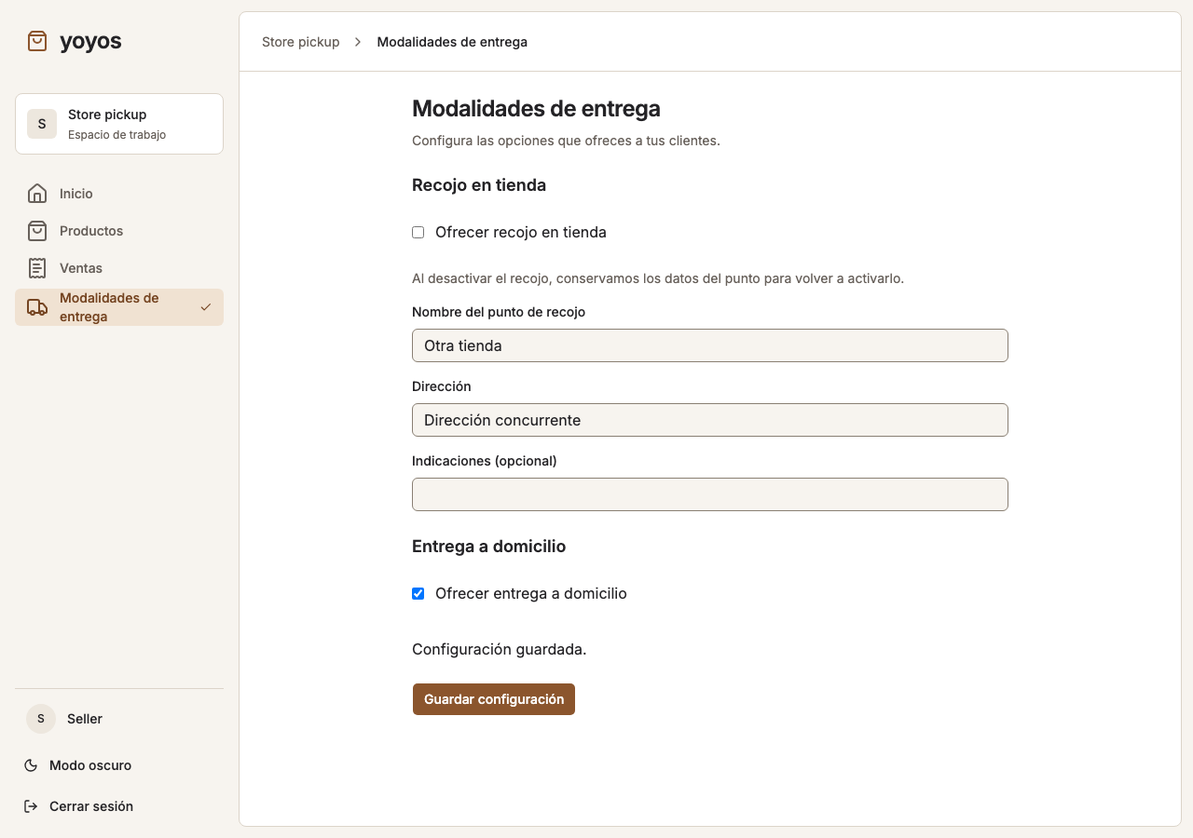
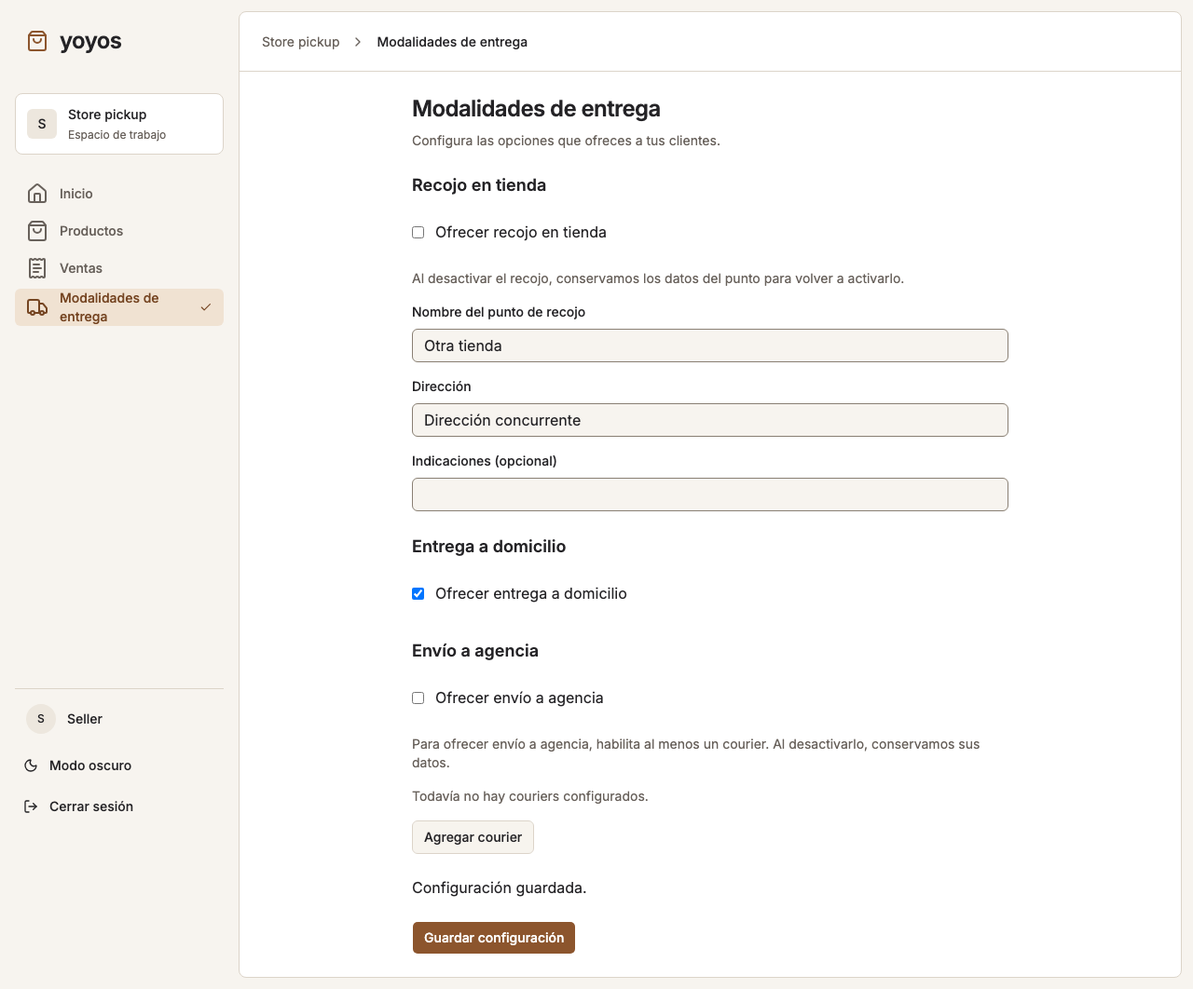
Configure agency delivery and couriers on web and mobile

diff --git a/apps/core/tests/e2e/delivery-settings.spec.ts b/apps/core/tests/e2e/delivery-settings.spec.ts
@@ -49,26 +49,76 @@ test("seller configures store pickup, preserves a conflicting draft and explicit
     await browserExpect(page.getByRole("status")).toHaveText("Configuración guardada.");
     expect(await (await page.request.get("/api/delivery-settings")).json()).toMatchObject({ version: 4, agency: { enabled: false }, couriers: [], home: { enabled: true }, store: { enabled: false, pickupPoint: { address: "Dirección concurrente" } } });
     await mkdir("../../.impeccable/review", { recursive: true });
+    await page.evaluate(() => window.scrollTo(0, 0));
     await page.screenshot({ path: "../../.impeccable/review/delivery-settings-desktop.png", fullPage: true });
     await page.setViewportSize({ width: 390, height: 844 });
     expect(await page.evaluate(() => document.documentElement.scrollWidth <= window.innerWidth)).toBe(true);
+    await page.evaluate(() => window.scrollTo(0, 0));
     await page.screenshot({ path: "../../.impeccable/review/delivery-settings-mobile.png", fullPage: true });
     await page.goto("/pt-BR/settings/delivery");
     await browserExpect(page.getByLabel("Oferecer retirada na loja")).not.toBeChecked();
     await browserExpect(page.getByLabel("Oferecer entrega em domicílio")).toBeChecked();
     await browserExpect(page.getByLabel("Endereço", { exact: true })).toHaveValue("Dirección concurrente");
-    const current = deliverySettingsSchema.parse(await (await page.request.get("/api/delivery-settings")).json());
-    const agencySave = await page.request.put("/api/delivery-settings", { data: { expectedVersion: current.version, home: current.home, store: current.store, agency: { enabled: true },
-      couriers: [{ kind: "new", name: "Active courier", enabled: true }, { kind: "new", name: "Inactive courier", enabled: false }] } });
-    expect(agencySave.ok()).toBe(true);
-    const agencySettings = deliverySettingsSchema.parse(await agencySave.json());
-    await page.reload();
+
+    await page.getByLabel("Oferecer envio para agência").check();
+    await page.getByRole("button", { name: "Adicionar transportadora" }).click();
+    await page.getByLabel("Nome da transportadora 1").fill("Discard");
+    await page.getByRole("button", { name: "Adicionar transportadora" }).click();
+    await page.getByLabel("Nome da transportadora 2").fill("Active courier");
+    await page.getByRole("button", { name: "Adicionar transportadora" }).click();
+    await page.getByLabel("Nome da transportadora 3").fill("Inactive courier");
+    await page.getByRole("button", { name: "Remover transportadora 1 não salva" }).click();
+    await browserExpect(page.getByLabel("Nome da transportadora 1")).toHaveValue("Active courier");
+    await browserExpect(page.getByLabel("Nome da transportadora 2")).toHaveValue("Inactive courier");
+    await page.getByLabel("Habilitar transportadora 2").uncheck();
+    const agencySaved = page.waitForResponse(response => response.request().method() === "POST" && new URL(response.url()).pathname.includes("/settings/delivery"));
+    await page.getByRole("button", { name: "Salvar configuração" }).click();
+    await agencySaved;
+    const agencySettings = deliverySettingsSchema.parse(await (await page.request.get("/api/delivery-settings")).json());
+    expect(agencySettings).toMatchObject({ version: 5, agency: { enabled: true }, couriers: expect.arrayContaining([expect.objectContaining({ name: "Active courier", enabled: true }), expect.objectContaining({ name: "Inactive courier", enabled: false })]) });
+    expect(agencySettings.couriers).toHaveLength(2);
+    await browserExpect(page.getByText("Remover cadastro não salvo")).toHaveCount(0);
     await page.getByLabel("Oferecer entrega em domicílio").uncheck();
     const preserved = page.waitForResponse(response => response.request().method() === "POST" && new URL(response.url()).pathname.includes("/settings/delivery"));
     await page.getByRole("button", { name: "Salvar configuração" }).click();
     await preserved;
     expect(await (await page.request.get("/api/delivery-settings")).json()).toEqual({ ...agencySettings, version: 6, home: { enabled: false }, couriers: expect.arrayContaining(agencySettings.couriers) });
-
+    await page.getByLabel("Habilitar transportadora 1").uncheck();
+    await page.getByRole("button", { name: "Salvar configuração" }).click();
+    await browserExpect(page.getByRole("alert")).toContainText("habilite pelo menos uma transportadora");
+    expect(await (await page.request.get("/api/delivery-settings")).json()).toMatchObject({ version: 6, agency: { enabled: true } });
+    await browserExpect(page.getByLabel("Habilitar transportadora 1")).not.toBeChecked();
+    await page.getByLabel("Oferecer envio para agência").uncheck();
+    const disabled = page.waitForResponse(response => response.request().method() === "POST" && new URL(response.url()).pathname.includes("/settings/delivery"));
+    await page.getByRole("button", { name: "Salvar configuração" }).click();
+    await disabled;
+    expect(await (await page.request.get("/api/delivery-settings")).json()).toMatchObject({ version: 7, agency: { enabled: false }, couriers: expect.arrayContaining(agencySettings.couriers.map(courier => ({ ...courier, enabled: false }))) });
+    await page.getByLabel("Habilitar transportadora 1").check();
+    await page.getByLabel("Oferecer envio para agência").check();
+    const enabledAgain = page.waitForResponse(response => response.request().method() === "POST" && new URL(response.url()).pathname.includes("/settings/delivery"));
+    await page.getByRole("button", { name: "Salvar configuração" }).click();
+    await enabledAgain;
+    const current = deliverySettingsSchema.parse(await (await page.request.get("/api/delivery-settings")).json());
+    await page.getByLabel("Nome da transportadora 1").fill("My rename");
+    await page.getByRole("button", { name: "Adicionar transportadora" }).click();
+    await page.getByLabel("Nome da transportadora 3").fill("My new courier");
+    expect((await page.request.put("/api/delivery-settings", { data: { expectedVersion: current.version, home: current.home, store: current.store, agency: current.agency,
+      couriers: current.couriers.map(courier => ({ ...courier, kind: "existing", name: "Concurrent " + courier.name })) } })).ok()).toBe(true);
+    await page.getByRole("button", { name: "Salvar configuração" }).click();
+    await browserExpect(page.getByRole("alert")).toContainText("Outra pessoa alterou");
+    await browserExpect(page.getByLabel("Nome da transportadora 1")).toHaveValue("My rename");
+    await browserExpect(page.getByLabel("Nome da transportadora 3")).toHaveValue("My new courier");
+    await browserExpect(page.getByRole("button", { name: "Salvar configuração" })).toBeDisabled();
+    await page.getByRole("link", { name: "Recarregar configuração" }).click();
+    await browserExpect(page.getByLabel("Nome da transportadora 3")).toHaveCount(0);
+    await browserExpect(page.getByLabel("Nome da transportadora 1")).toHaveValue(/^Concurrent /);
+    await page.setViewportSize({ width: 1280, height: 900 });
+    await page.evaluate(() => window.scrollTo(0, 0));
+    await page.screenshot({ path: "../../.impeccable/review/agency-settings-desktop.png", fullPage: true });
+    await page.setViewportSize({ width: 390, height: 844 });
+    expect(await page.evaluate(() => document.documentElement.scrollWidth <= window.innerWidth)).toBe(true);
+    await page.evaluate(() => window.scrollTo(0, 0));
+    await page.screenshot({ path: "../../.impeccable/review/agency-settings-mobile.png", fullPage: true });
   } finally {
     if (companyId) await withTenantIsolation(companyId, async () => {
       await prisma.companyCourier.deleteMany();

diff --git a/apps/core/app/routes/delivery-settings.tsx b/apps/core/app/routes/delivery-settings.tsx
@@ -1,9 +1,9 @@
 import { parseCourierInputs } from "@core/src/features/delivery-settings/domain/delivery-settings";
-import { useState } from "react";
+import { useRef, useState } from "react";
 import { useClientReady } from "@core/app/use-client-ready";
 import { useTranslation } from "react-i18next";
 import { useActionData, useLoaderData, useNavigation, useSubmit, type ActionFunctionArgs, type LoaderFunctionArgs } from "react-router";
-import { deliverySettingsSchema, saveDeliverySettingsSchema, type DeliverySettingsResponse } from "@shared/contracts/delivery-settings";
+import { deliverySettingsSchema, saveDeliverySettingsSchema, type DeliverySettingsResponse, type SaveDeliverySettingsRequest } from "@shared/contracts/delivery-settings";
 import { privateUserContext } from "@core/app/private-user-context";
 import { deliverySettings } from "@core/src/features/delivery-settings/composition";
 import { log } from "@core/src/shared/infrastructure/logger";
@@ -42,6 +42,9 @@ export async function action({ context, request }: ActionFunctionArgs) {
   }
 }
 
+type CourierDraft = Extract<SaveDeliverySettingsRequest["couriers"][number], { kind: "existing" }>
+  | (Extract<SaveDeliverySettingsRequest["couriers"][number], { kind: "new" }> & { localKey: number });
+
 function SettingsForm({ settings }: { settings: DeliverySettingsResponse }) {
   const { t } = useTranslation();
   const submit = useSubmit();
@@ -50,7 +53,8 @@ function SettingsForm({ settings }: { settings: DeliverySettingsResponse }) {
   const result = useActionData<typeof action>();
   const [version, setVersion] = useState(settings.version);
   const [agency, setAgency] = useState(settings.agency);
-  const [couriers, setCouriers] = useState(settings.couriers);
+  const [couriers, setCouriers] = useState<CourierDraft[]>(settings.couriers.map(courier => ({ ...courier, kind: "existing" })));
+  const nextCourierKey = useRef(0);
   const [homeEnabled, setHomeEnabled] = useState(settings.home.enabled);
   const [enabled, setEnabled] = useState(settings.store.enabled);
   const [name, setName] = useState(settings.store.pickupPoint?.name ?? "");
@@ -61,7 +65,7 @@ function SettingsForm({ settings }: { settings: DeliverySettingsResponse }) {
   if (saved && saved.version !== version) {
     setVersion(saved.version);
     setAgency(saved.agency);
-    setCouriers(saved.couriers);
+    setCouriers(saved.couriers.map(courier => ({ ...courier, kind: "existing" })));
     setHomeEnabled(saved.home.enabled);
     setEnabled(saved.store.enabled);
     setName(saved.store.pickupPoint?.name ?? "");
@@ -74,7 +78,7 @@ function SettingsForm({ settings }: { settings: DeliverySettingsResponse }) {
   return <form className="flex flex-col gap-6" onSubmit={event => {
     event.preventDefault();
     if (!ready) return;
-    submit({ expectedVersion: version, agency, couriers: couriers.map(courier => ({ ...courier, kind: "existing" as const })), home: { enabled: homeEnabled }, store: { enabled, pickupPoint: configured
+    submit({ expectedVersion: version, agency, couriers: couriers.map(courier => courier.kind === "new" ? { kind: courier.kind, name: courier.name, enabled: courier.enabled } : courier), home: { enabled: homeEnabled }, store: { enabled, pickupPoint: configured
       ? { name, address, instructions: instructions.trim() || null } : null } }, { method: "post", encType: "application/json" });
   }}>
     <fieldset className="flex min-w-0 flex-col gap-4" disabled={pending || !ready}>
@@ -88,6 +92,24 @@ function SettingsForm({ settings }: { settings: DeliverySettingsResponse }) {
     <fieldset className="flex min-w-0 flex-col gap-4" disabled={pending || !ready}>
       <legend className="mb-3 text-lg font-semibold">{t("deliverySettings.home")}</legend>
       <label className="flex min-h-touch items-center gap-3"><input type="checkbox" checked={homeEnabled} onChange={event => setHomeEnabled(event.target.checked)} />{t("deliverySettings.homeEnabled")}</label>
+    </fieldset>
+    <fieldset className="flex min-w-0 flex-col gap-4" disabled={pending || !ready}>
+      <legend className="mb-3 text-lg font-semibold">{t("deliverySettings.agency")}</legend>
+      <label className="flex min-h-touch items-center gap-3"><input type="checkbox" checked={agency.enabled} onChange={event => setAgency({ enabled: event.target.checked })} />{t("deliverySettings.agencyEnabled")}</label>
+      <p className="text-sm text-muted-foreground">{t("deliverySettings.courierHint")}</p>
+      {couriers.length === 0 && <p className="text-sm text-muted-foreground">{t("deliverySettings.noCouriers")}</p>}
+      {couriers.map((courier, index) => {
+        const key = courier.kind === "existing" ? courier.id : `new-${courier.localKey}`;
+        const label = t("deliverySettings.courierName", { number: index + 1 });
+        const update = (change: Partial<Pick<CourierDraft, "name" | "enabled">>) => setCouriers(rows => rows.map((row, rowIndex) => rowIndex === index ? { ...row, ...change } : row));
+        return <div key={key} className="flex min-w-0 flex-col gap-3 border-t border-border pt-4">
+          <Field><FieldLabel htmlFor={`courier-${key}`}>{label}</FieldLabel><Input id={`courier-${key}`} value={courier.name} maxLength={120} required onChange={event => update({ name: event.target.value })} /></Field>
+          <label className="flex min-h-touch items-center gap-3"><input type="checkbox" checked={courier.enabled} onChange={event => update({ enabled: event.target.checked })} />{t("deliverySettings.courierEnabled", { number: index + 1 })}</label>
+          {courier.kind === "new" && <Button type="button" variant="ghost" className="self-start max-md:min-h-touch" aria-label={t("deliverySettings.removeCourierLabel", { number: index + 1 })}
+            onClick={() => setCouriers(rows => rows.filter(row => row !== courier))}>{t("deliverySettings.removeCourier")}</Button>}
+        </div>;
+      })}
+      <Button type="button" variant="outline" className="self-start max-md:min-h-touch" onClick={() => { const localKey = ++nextCourierKey.current; setCouriers(rows => [...rows, { kind: "new", localKey, name: "", enabled: true }]); }}>{t("deliverySettings.addCourier")}</Button>
     </fieldset>
     {result?.error && <p role="alert" className="text-sm text-destructive">{t(`deliverySettings.${result.error}`)}</p>}
     {result?.saved && <p role="status">{t("deliverySettings.saved")}</p>}

diff --git a/apps/mobile/src/features/delivery-settings/presentation/translations.ts b/apps/mobile/src/features/delivery-settings/presentation/translations.ts
@@ -1,8 +1,8 @@
 export const translations = {
   es: {
-    deliverySettingsNav: "Configuración", deliverySettingsTitle: "Modalidades de entrega", deliverySettingsDescription: "Configura las opciones que ofreces a tus clientes.", homeDeliveryTitle: "Entrega a domicilio", homeDeliveryEnabled: "Ofrecer entrega a domicilio", pickupStoreTitle: "Recojo en tienda", pickupEnabled: "Ofrecer recojo en tienda", pickupHint: "Al desactivar el recojo, conservamos los datos del punto para volver a activarlo.", pickupName: "Nombre del punto de recojo", pickupAddress: "Dirección", pickupInstructions: "Indicaciones (opcional)", saveDeliverySettings: "Guardar configuración", deliverySettingsSaved: "Configuración guardada.", reloadDeliverySettings: "Recargar configuración", deliverySettingsInvalid: "Completa el nombre y la dirección del punto de recojo.", deliverySettingsConflict: "Otra persona cambió la configuración. Recarga para revisar los cambios antes de guardar.", deliverySettingsSaveError: "No se pudo guardar. Conservamos tus cambios para reintentar.", deliverySettingsLoadError: "No se pudo cargar la configuración", loadingDeliverySettings: "Cargando configuración…",
+    deliverySettingsNav: "Configuración", deliverySettingsTitle: "Modalidades de entrega", deliverySettingsDescription: "Configura las opciones que ofreces a tus clientes.", homeDeliveryTitle: "Entrega a domicilio", homeDeliveryEnabled: "Ofrecer entrega a domicilio", agencyDeliveryTitle: "Envío a agencia", agencyDeliveryEnabled: "Ofrecer envío a agencia", courierHint: "Para ofrecer envío a agencia, habilita al menos un courier. Al desactivarlo, conservamos sus datos.", noCouriers: "Todavía no hay couriers configurados.", courierName: "Nombre del courier {{number}}", courierEnabled: "Habilitar courier {{number}}", addCourier: "Agregar courier", removeCourier: "Quitar alta sin guardar", removeCourierLabel: "Quitar courier {{number}} sin guardar", pickupStoreTitle: "Recojo en tienda", pickupEnabled: "Ofrecer recojo en tienda", pickupHint: "Al desactivar el recojo, conservamos los datos del punto para volver a activarlo.", pickupName: "Nombre del punto de recojo", pickupAddress: "Dirección", pickupInstructions: "Indicaciones (opcional)", saveDeliverySettings: "Guardar configuración", deliverySettingsSaved: "Configuración guardada.", reloadDeliverySettings: "Recargar configuración", deliverySettingsInvalid: "Completa los campos obligatorios y habilita al menos un courier si ofreces envío a agencia.", deliverySettingsConflict: "Otra persona cambió la configuración. Recarga para revisar los cambios antes de guardar.", deliverySettingsSaveError: "No se pudo guardar. Conservamos tus cambios para reintentar.", deliverySettingsLoadError: "No se pudo cargar la configuración", loadingDeliverySettings: "Cargando configuración…",
   },
   'pt-BR': {
-    deliverySettingsNav: "Configuração", deliverySettingsTitle: "Modalidades de entrega", deliverySettingsDescription: "Configure as opções que você oferece aos seus clientes.", homeDeliveryTitle: "Entrega em domicílio", homeDeliveryEnabled: "Oferecer entrega em domicílio", pickupStoreTitle: "Retirada na loja", pickupEnabled: "Oferecer retirada na loja", pickupHint: "Ao desativar a retirada, mantemos os dados do ponto para ativá-lo novamente.", pickupName: "Nome do ponto de retirada", pickupAddress: "Endereço", pickupInstructions: "Instruções (opcional)", saveDeliverySettings: "Salvar configuração", deliverySettingsSaved: "Configuração salva.", reloadDeliverySettings: "Recarregar configuração", deliverySettingsInvalid: "Preencha o nome e o endereço do ponto de retirada.", deliverySettingsConflict: "Outra pessoa alterou a configuração. Recarregue para revisar as alterações antes de salvar.", deliverySettingsSaveError: "Não foi possível salvar. Mantemos suas alterações para tentar novamente.", deliverySettingsLoadError: "Não foi possível carregar a configuração", loadingDeliverySettings: "Carregando configuração…",
+    deliverySettingsNav: "Configuração", deliverySettingsTitle: "Modalidades de entrega", deliverySettingsDescription: "Configure as opções que você oferece aos seus clientes.", homeDeliveryTitle: "Entrega em domicílio", homeDeliveryEnabled: "Oferecer entrega em domicílio", agencyDeliveryTitle: "Envio para agência", agencyDeliveryEnabled: "Oferecer envio para agência", courierHint: "Para oferecer envio para agência, habilite pelo menos uma transportadora. Ao desativá-la, mantemos seus dados.", noCouriers: "Ainda não há transportadoras configuradas.", courierName: "Nome da transportadora {{number}}", courierEnabled: "Habilitar transportadora {{number}}", addCourier: "Adicionar transportadora", removeCourier: "Remover cadastro não salvo", removeCourierLabel: "Remover transportadora {{number}} não salva", pickupStoreTitle: "Retirada na loja", pickupEnabled: "Oferecer retirada na loja", pickupHint: "Ao desativar a retirada, mantemos os dados do ponto para ativá-lo novamente.", pickupName: "Nome do ponto de retirada", pickupAddress: "Endereço", pickupInstructions: "Instruções (opcional)", saveDeliverySettings: "Salvar configuração", deliverySettingsSaved: "Configuração salva.", reloadDeliverySettings: "Recarregar configuração", deliverySettingsInvalid: "Preencha os campos obrigatórios e habilite pelo menos uma transportadora se oferecer envio para agência.", deliverySettingsConflict: "Outra pessoa alterou a configuração. Recarregue para revisar as alterações antes de salvar.", deliverySettingsSaveError: "Não foi possível salvar. Mantemos suas alterações para tentar novamente.", deliverySettingsLoadError: "Não foi possível carregar a configuração", loadingDeliverySettings: "Carregando configuração…",
   },
 } as const;

diff --git a/apps/core/app/locales.ts b/apps/core/app/locales.ts
@@ -19,7 +19,7 @@ const es = {
     greeting: "Hola, {{name}}", ready: "Tu espacio de trabajo está listo.",
   },
   deliverySettings: {
-    title: "Modalidades de entrega", description: "Configura las opciones que ofreces a tus clientes.", home: "Entrega a domicilio", homeEnabled: "Ofrecer entrega a domicilio", store: "Recojo en tienda", enabled: "Ofrecer recojo en tienda", storeHint: "Al desactivar el recojo, conservamos los datos del punto para volver a activarlo.", name: "Nombre del punto de recojo", address: "Dirección", instructions: "Indicaciones (opcional)", save: "Guardar configuración", saving: "Guardando…", saved: "Configuración guardada.", reload: "Recargar configuración", invalid: "Completa el nombre y la dirección del punto de recojo.", conflict: "Otra persona cambió la configuración. Recarga para revisar los cambios antes de guardar.", saveError: "No se pudo guardar. Conservamos tus cambios para que puedas reintentar.", loadError: "No se pudo cargar la configuración",
+    title: "Modalidades de entrega", description: "Configura las opciones que ofreces a tus clientes.", home: "Entrega a domicilio", homeEnabled: "Ofrecer entrega a domicilio", agency: "Envío a agencia", agencyEnabled: "Ofrecer envío a agencia", courierHint: "Para ofrecer envío a agencia, habilita al menos un courier. Al desactivarlo, conservamos sus datos.", noCouriers: "Todavía no hay couriers configurados.", courierName: "Nombre del courier {{number}}", courierEnabled: "Habilitar courier {{number}}", addCourier: "Agregar courier", removeCourier: "Quitar alta sin guardar", removeCourierLabel: "Quitar courier {{number}} sin guardar", store: "Recojo en tienda", enabled: "Ofrecer recojo en tienda", storeHint: "Al desactivar el recojo, conservamos los datos del punto para volver a activarlo.", name: "Nombre del punto de recojo", address: "Dirección", instructions: "Indicaciones (opcional)", save: "Guardar configuración", saving: "Guardando…", saved: "Configuración guardada.", reload: "Recargar configuración", invalid: "Completa los campos obligatorios y habilita al menos un courier si ofreces envío a agencia.", conflict: "Otra persona cambió la configuración. Recarga para revisar los cambios antes de guardar.", saveError: "No se pudo guardar. Conservamos tus cambios para que puedas reintentar.", loadError: "No se pudo cargar la configuración",
   },
   orderDelivery: {
     method: "Modalidad de entrega", chooseMethod: "Selecciona una modalidad", address: "Dirección de entrega", district: "Distrito", instructions: "Indicaciones de entrega (opcional)",
@@ -82,7 +82,7 @@ const pt = {
     greeting: "Olá, {{name}}", ready: "Seu espaço de trabalho está pronto.",
   },
   deliverySettings: {
-    title: "Modalidades de entrega", description: "Configure as opções que você oferece aos seus clientes.", home: "Entrega em domicílio", homeEnabled: "Oferecer entrega em domicílio", store: "Retirada na loja", enabled: "Oferecer retirada na loja", storeHint: "Ao desativar a retirada, mantemos os dados do ponto para ativá-lo novamente.", name: "Nome do ponto de retirada", address: "Endereço", instructions: "Instruções (opcional)", save: "Salvar configuração", saving: "Salvando…", saved: "Configuração salva.", reload: "Recarregar configuração", invalid: "Preencha o nome e o endereço do ponto de retirada.", conflict: "Outra pessoa alterou a configuração. Recarregue para revisar as alterações antes de salvar.", saveError: "Não foi possível salvar. Mantemos suas alterações para tentar novamente.", loadError: "Não foi possível carregar a configuração",
+    title: "Modalidades de entrega", description: "Configure as opções que você oferece aos seus clientes.", home: "Entrega em domicílio", homeEnabled: "Oferecer entrega em domicílio", agency: "Envio para agência", agencyEnabled: "Oferecer envio para agência", courierHint: "Para oferecer envio para agência, habilite pelo menos uma transportadora. Ao desativá-la, mantemos seus dados.", noCouriers: "Ainda não há transportadoras configuradas.", courierName: "Nome da transportadora {{number}}", courierEnabled: "Habilitar transportadora {{number}}", addCourier: "Adicionar transportadora", removeCourier: "Remover cadastro não salvo", removeCourierLabel: "Remover transportadora {{number}} não salva", store: "Retirada na loja", enabled: "Oferecer retirada na loja", storeHint: "Ao desativar a retirada, mantemos os dados do ponto para ativá-lo novamente.", name: "Nome do ponto de retirada", address: "Endereço", instructions: "Instruções (opcional)", save: "Salvar configuração", saving: "Salvando…", saved: "Configuração salva.", reload: "Recarregar configuração", invalid: "Preencha os campos obrigatórios e habilite pelo menos uma transportadora se oferecer envio para agência.", conflict: "Outra pessoa alterou a configuração. Recarregue para revisar as alterações antes de salvar.", saveError: "Não foi possível salvar. Mantemos suas alterações para tentar novamente.", loadError: "Não foi possível carregar a configuração",
   },
   orderDelivery: {
     method: "Modalidade de entrega", chooseMethod: "Selecione uma modalidade", address: "Endereço de entrega", district: "Distrito", instructions: "Instruções de entrega (opcional)",

diff --git a/apps/mobile/src/features/delivery-settings/presentation/delivery-settings-screen.tsx b/apps/mobile/src/features/delivery-settings/presentation/delivery-settings-screen.tsx
@@ -4,7 +4,7 @@ import { SafeAreaView } from "react-native-safe-area-context";
 import { useTranslation } from "react-i18next";
 import type { DeliverySettingsResponse } from "@shared/contracts/delivery-settings";
 import { deliverySettings } from "@mobile/features/delivery-settings/composition";
-import type { DeliverySettingsDraft } from "@mobile/features/delivery-settings/application/delivery-settings";
+import type { CourierDraft, DeliverySettingsDraft } from "@mobile/features/delivery-settings/application/delivery-settings";
 import { useAccess } from "@mobile/features/users/presentation/access-provider";
 import { ThemedText } from "@mobile/components/themed-text";
 import { ThemedView } from "@mobile/components/themed-view";
@@ -31,6 +31,7 @@ export default function DeliverySettingsScreen() {
   const [conflict, setConflict] = useState(false);
   const inFlight = useRef(false);
   const initialized = useRef(false);
+  const nextCourierKey = useRef(0);
   const load = useCallback(async () => {
     if (!companyId || inFlight.current) return;
     inFlight.current = true;
@@ -82,6 +83,26 @@ export default function DeliverySettingsScreen() {
           value={draft.homeEnabled} disabled={busy} hitSlop={10} trackColor={{ true: theme.primary }}
           onValueChange={value => { setDraft({ ...draft, homeEnabled: value }); setSaved(false); }} /></View>
       </View>
+      <View style={styles.section}><ThemedText type="subtitle" accessibilityRole="header">{t("agencyDeliveryTitle")}</ThemedText>
+        <View style={styles.toggle}><ThemedText style={styles.label}>{t("agencyDeliveryEnabled")}</ThemedText><Switch accessibilityLabel={t("agencyDeliveryEnabled")}
+          value={draft.agencyEnabled} disabled={busy} hitSlop={10} trackColor={{ true: theme.primary }}
+          onValueChange={value => { setDraft({ ...draft, agencyEnabled: value }); setSaved(false); }} /></View>
+        <ThemedText type="small" themeColor="textSecondary">{t("courierHint")}</ThemedText>
+        {draft.couriers.length === 0 ? <ThemedText themeColor="textSecondary">{t("noCouriers")}</ThemedText> : null}
+        {draft.couriers.map((courier, index) => {
+          const key = courier.kind === "existing" ? courier.id : `new-${courier.localKey}`;
+          const label = t("courierName", { number: index + 1 });
+          const update = (change: Partial<Pick<CourierDraft, "name" | "enabled">>) => { setDraft({ ...draft, couriers: draft.couriers.map((row, rowIndex) => rowIndex === index ? { ...row, ...change } : row) }); setSaved(false); };
+          return <View key={key} style={[styles.courier, { borderColor: theme.input }]}>
+            <Field disabled={busy} required><FieldLabel>{label}</FieldLabel><Input value={courier.name} maxLength={120} accessibilityLabel={label} onChangeText={name => update({ name })} /></Field>
+            <View style={styles.toggle}><ThemedText style={styles.label}>{t("courierEnabled", { number: index + 1 })}</ThemedText><Switch accessibilityLabel={t("courierEnabled", { number: index + 1 })}
+              value={courier.enabled} disabled={busy} hitSlop={10} trackColor={{ true: theme.primary }} onValueChange={enabled => update({ enabled })} /></View>
+            {courier.kind === "new" ? <Button variant="ghost" disabled={busy} accessibilityLabel={t("removeCourierLabel", { number: index + 1 })}
+              onPress={() => { setDraft({ ...draft, couriers: draft.couriers.filter(row => row !== courier) }); setSaved(false); }}>{t("removeCourier")}</Button> : null}
+          </View>;
+        })}
+        <Button variant="secondary" disabled={busy} onPress={() => { setDraft({ ...draft, couriers: [...draft.couriers, { kind: "new", localKey: ++nextCourierKey.current, name: "", enabled: true }] }); setSaved(false); }}>{t("addCourier")}</Button>
+      </View>
       {error ? <ThemedText accessibilityRole="alert" style={{ color: theme.error }}>{t(error)}</ThemedText> : null}
       {saved ? <ThemedText accessibilityLiveRegion="polite">{t("deliverySettingsSaved")}</ThemedText> : null}
       <Button onPress={() => void save()} disabled={busy || conflict} loading={busy}>{t("saveDeliverySettings")}</Button>
@@ -91,4 +112,4 @@ export default function DeliverySettingsScreen() {
 }
 
 const styles = StyleSheet.create({ page: { flex: 1 }, content: { padding: 16, gap: 24, paddingBottom: 32, width: "100%", maxWidth: 640, alignSelf: "center" },
-  heading: { gap: 8 }, section: { gap: 16 }, toggle: { flexDirection: "row", alignItems: "center", gap: 16, minHeight: 48 }, label: { flex: 1 } });
+  courier: { gap: 12, borderTopWidth: StyleSheet.hairlineWidth, paddingTop: 16 }, heading: { gap: 8 }, section: { gap: 16 }, toggle: { flexDirection: "row", alignItems: "center", gap: 16, minHeight: 48 }, label: { flex: 1 } });

diff --git a/apps/mobile/src/features/delivery-settings/presentation/delivery-settings-screen.test.tsx b/apps/mobile/src/features/delivery-settings/presentation/delivery-settings-screen.test.tsx
@@ -104,3 +104,51 @@ test("editing home preserves every loaded courier and agency enablement in the w
   await screen.findByText(/No se pudo guardar/);
   expect(save).toHaveBeenCalledWith(expect.objectContaining({ expectedVersion: 4, homeEnabled: true, agencyEnabled: true, couriers: couriers.map(courier => ({ ...courier, kind: "existing" })) }));
 });
+
+
+test("courier rows keep draft values when removing unsaved rows and receive canonical IDs after saving", async () => {
+  const id = "00000000-0000-4000-8000-000000000003";
+  save.mockResolvedValueOnce(ok({ version: 1, home: { enabled: false }, store: { enabled: false, pickupPoint: null }, agency: { enabled: true }, couriers: [{ id, name: "New courier", enabled: true }] }))
+    .mockResolvedValueOnce(ok({ version: 2, home: { enabled: false }, store: { enabled: false, pickupPoint: null }, agency: { enabled: false }, couriers: [{ id, name: "Renamed", enabled: false }] }));
+  const screen = render(<DeliverySettingsScreen />);
+  await screen.findByText("Envío a agencia");
+  fireEvent(screen.getByLabelText("Ofrecer envío a agencia"), "valueChange", true);
+  fireEvent.press(screen.getByText("Agregar courier"));
+  fireEvent.changeText(screen.getByLabelText("Nombre del courier 1", { exact: false }), "Discard");
+  fireEvent.press(screen.getByText("Agregar courier"));
+  fireEvent.changeText(screen.getByLabelText("Nombre del courier 2", { exact: false }), "New courier");
+  fireEvent.press(screen.getByLabelText("Quitar courier 1 sin guardar"));
+  expect(screen.getByLabelText("Nombre del courier 1", { exact: false }).props.value).toBe("New courier");
+  fireEvent.press(screen.getByText("Guardar configuración"));
+  await screen.findByText("Configuración guardada.");
+  expect(save).toHaveBeenLastCalledWith(expect.objectContaining({ agencyEnabled: true, couriers: [{ kind: "new", name: "New courier", enabled: true, localKey: 2 }] }));
+  expect(screen.queryByText("Quitar alta sin guardar")).toBeNull();
+  fireEvent.changeText(screen.getByLabelText("Nombre del courier 1", { exact: false }), "Renamed");
+  fireEvent(screen.getByLabelText("Habilitar courier 1"), "valueChange", false);
+  fireEvent(screen.getByLabelText("Ofrecer envío a agencia"), "valueChange", false);
+  fireEvent.press(screen.getByText("Guardar configuración"));
+  await waitFor(() => expect(save).toHaveBeenCalledTimes(2));
+  expect(save).toHaveBeenLastCalledWith(expect.objectContaining({ expectedVersion: 1, agencyEnabled: false, couriers: [{ kind: "existing", id, name: "Renamed", enabled: false }] }));
+});
+
+test("courier configuration conflict retains new and existing rows, flags and names until explicit reload", async () => {
+  const id = "00000000-0000-4000-8000-000000000003";
+  get.mockResolvedValueOnce(ok({ version: 1, home: { enabled: false }, store: { enabled: false, pickupPoint: null }, agency: { enabled: true }, couriers: [{ id, name: "Existing", enabled: true }] }))
+    .mockResolvedValueOnce(ok({ version: 2, home: { enabled: false }, store: { enabled: false, pickupPoint: null }, agency: { enabled: false }, couriers: [{ id, name: "Concurrent", enabled: false }] }));
+  save.mockResolvedValue(err({ code: "DELIVERY_SETTINGS_CONFLICT", message: "Changed" }));
+  const screen = render(<DeliverySettingsScreen />);
+  await screen.findByText("Envío a agencia");
+  fireEvent.changeText(screen.getByLabelText("Nombre del courier 1", { exact: false }), "My edit");
+  fireEvent.press(screen.getByText("Agregar courier"));
+  fireEvent.changeText(screen.getByLabelText("Nombre del courier 2", { exact: false }), "My new courier");
+  fireEvent.press(screen.getByText("Guardar configuración"));
+  await screen.findByText(/Otra persona cambió/);
+  expect(screen.getByLabelText("Nombre del courier 1", { exact: false }).props.value).toBe("My edit");
+  expect(screen.getByLabelText("Nombre del courier 2", { exact: false }).props.value).toBe("My new courier");
+  expect(screen.getByLabelText("Ofrecer envío a agencia").props.value).toBe(true);
+  expect(screen.getByRole("button", { name: "Guardar configuración" }).props.accessibilityState.disabled).toBe(true);
+  fireEvent.press(screen.getByText("Recargar configuración"));
+  await waitFor(() => expect(screen.getByLabelText("Nombre del courier 1", { exact: false }).props.value).toBe("Concurrent"));
+  expect(screen.queryByLabelText("Nombre del courier 2", { exact: false })).toBeNull();
+  expect(screen.getByLabelText("Habilitar courier 1").props.value).toBe(false);
+});

diff --git a/apps/mobile/src/features/delivery-settings/application/delivery-settings.ts b/apps/mobile/src/features/delivery-settings/application/delivery-settings.ts
@@ -7,12 +7,14 @@ export type DeliverySettingsError = Readonly<{
   code: TransportError["code"] | "INVALID_INPUT" | "INVALID_DELIVERY_SETTINGS" | "DELIVERY_SETTINGS_CONFLICT" | "PAYLOAD_TOO_LARGE";
   message: string;
 }>;
-export type DeliverySettingsDraft = Readonly<{ expectedVersion: number; homeEnabled: boolean; agencyEnabled: boolean; couriers: SaveDeliverySettingsRequest["couriers"]; storeEnabled: boolean; pickupName: string; pickupAddress: string; pickupInstructions: string }>;
+export type CourierDraft = Extract<SaveDeliverySettingsRequest["couriers"][number], { kind: "existing" }>
+  | (Extract<SaveDeliverySettingsRequest["couriers"][number], { kind: "new" }> & { localKey: number });
+export type DeliverySettingsDraft = Readonly<{ expectedVersion: number; homeEnabled: boolean; agencyEnabled: boolean; couriers: readonly CourierDraft[]; storeEnabled: boolean; pickupName: string; pickupAddress: string; pickupInstructions: string }>;
 export type SaveDeliverySettings = (input: SaveDeliverySettingsRequest) => Promise<Result<DeliverySettingsResponse, DeliverySettingsError>>;
 
 export async function saveDeliverySettings(draft: DeliverySettingsDraft, save: SaveDeliverySettings): Promise<Result<DeliverySettingsResponse, DeliverySettingsError>> {
   const configured = draft.storeEnabled || [draft.pickupName, draft.pickupAddress, draft.pickupInstructions].some(value => value.trim() !== "");
-  const input = saveDeliverySettingsSchema.safeParse({ expectedVersion: draft.expectedVersion, agency: { enabled: draft.agencyEnabled }, couriers: draft.couriers, home: { enabled: draft.homeEnabled }, store: { enabled: draft.storeEnabled,
+  const input = saveDeliverySettingsSchema.safeParse({ expectedVersion: draft.expectedVersion, agency: { enabled: draft.agencyEnabled }, couriers: draft.couriers.map(courier => courier.kind === "new" ? { kind: courier.kind, name: courier.name, enabled: courier.enabled } : courier), home: { enabled: draft.homeEnabled }, store: { enabled: draft.storeEnabled,
     pickupPoint: configured ? { name: draft.pickupName, address: draft.pickupAddress, instructions: draft.pickupInstructions.trim() || null } : null } });
   return input.success ? save(input.data) : err({ code: "INVALID_DELIVERY_SETTINGS", message: "Invalid delivery settings" });
 }

diff --git a/apps/mobile/src/features/delivery-settings/application/delivery-settings.test.ts b/apps/mobile/src/features/delivery-settings/application/delivery-settings.test.ts
@@ -27,3 +27,12 @@ test("a store edit preserves the loaded home enablement in the complete settings
   await saveDeliverySettings({ ...draft, agencyEnabled: false, couriers: [], homeEnabled: true }, save);
   expect(save).toHaveBeenCalledWith({ expectedVersion: 0, agency: { enabled: false }, couriers: [], home: { enabled: true }, store: { enabled: false, pickupPoint: null } });
 });
+
+
+test("new courier row keys stay local while all existing inactive couriers are sent", async () => {
+  const id = "00000000-0000-4000-8000-000000000003";
+  const save = jest.fn(async () => err({ code: "NETWORK_ERROR" as const, message: "Offline" }));
+  await saveDeliverySettings({ ...draft, agencyEnabled: true, couriers: [{ kind: "existing", id, name: " Inactive ", enabled: false }, { kind: "new", localKey: 4, name: " New ", enabled: true }] }, save);
+  expect(save).toHaveBeenCalledWith({ expectedVersion: 0, home: { enabled: false }, store: { enabled: false, pickupPoint: null }, agency: { enabled: true },
+    couriers: [{ kind: "existing", id, name: "Inactive", enabled: false }, { kind: "new", name: "New", enabled: true }] });
+});

diff --git a/.impeccable/surfaces/apps-mobile-src-features-delivery-settings-presentation-delivery-settings-screen-tsx.md b/.impeccable/surfaces/apps-mobile-src-features-delivery-settings-presentation-delivery-settings-screen-tsx.md
@@ -7,10 +7,8 @@ related_targets: []
 
 # Native delivery settings
 
-Operate, seller-facing independent home/store enablement; inherits PRODUCT.md’s platform conventions and DESIGN.md’s compact caramel hierarchy. Native Switch sections, labeled pickup fields, scroll/keyboard accommodation, and safe areas adapt the shared task. Spanish and Brazilian Portuguese are supported.
+Operate; preserves compact caramel and native conventions. Spanish/Portuguese labeled fields/Switches independently enable home/store/agency. Scroll, keyboard, safe areas, max640 form width, and minimum 48-unit controls accommodate native use. Version-0 defaults disable all modalities with null pickup; disabling retains its point. Complete pickup name/address are trimmed; blank optional instructions normalize to null. Courier rows support unsaved add/remove, persisted rename/deactivation, and retained inactive rows. Local keys are excluded from requests; confirmed saves restore canonical IDs. Complete versioned saves preserve every row, flag, and pickup field on conflict until explicit reload; success resets canonical fields/version. Mobile web tabs remain in normal flow and wrap the fourth tab.
 
-Both methods start disabled, pickup point null, version 0. Complete pickup values are trimmed; disabling retains the point. Complete settings saves use expectedVersion. Conflicts preserve both flags and fields and block saving until explicit reload; successful confirmation replaces fields/version. Tests cover retained points, conflict/language changes, validation, and duplicate submission prevention.
+Core/mobile lint/typecheck, focused web E2E, and focused settings Jest passed after required-marker label queries were corrected. Full suite previously passed 198 tests with two query failures; corrected focused results do not establish a full rerun.
 
-The mobile app’s web tab bar stays in normal flow, wraps its fourth tab, and uses minimum 48-unit controls.
-
-Reviewer `home_settings_review`: ship for native code/accessibility/i18n scope. Lint/typecheck, core unit, mobile Jest, and focused web E2E passed. No native captures: adb devices is empty and Android emulator SDK/Xcode simulator are unavailable. Native visual review and device E2E remain pending; unit tests provide behavioral evidence only.
+Reviewer `agency_settings_native_review`: recapture. Code/fidelity review stopped at missing iOS/Android phone evidence; no code approval. No device/simulator: adb only, no Android SDK; Xcode CommandLineTools only. Native light/dark, enlarged-text, keyboard captures and device E2E remain pending. Browser captures cannot substitute. Pending evidence is accepted until prepared, not full acceptance.

diff --git a/.impeccable/surfaces/apps-core-app-routes-delivery-settings-tsx.md b/.impeccable/surfaces/apps-core-app-routes-delivery-settings-tsx.md
@@ -7,10 +7,8 @@ related_targets: ["apps/core/app/routes/private-layout.tsx"]
 
 # Delivery settings
 
-Operate surface, web only. Inherits the compact caramel system in DESIGN.md. Sellers independently enable home delivery and store pickup via checkboxes; both start disabled, pickup point null, version 0. Disabling retains the configured point. A supplied point requires complete name/address with trimmed values; optional instructions normalize to null when blank.
+Operate, web only; preserves incumbent compact caramel. Independent home/store/agency flags and courier rows share a complete versioned save. Version-0 defaults disable all modalities with null pickup. Disabling retains its point; supplied pickup requires complete trimmed name/address, with blank optional instructions normalized to null. Couriers can be added/removed only while unsaved; persisted rows support rename/deactivation and remain present when inactive. Local keys never enter requests; confirmed saves replace them with canonical IDs. Conflicts preserve all rows, flags, and pickup fields until explicit reload. Successful saves reset canonical fields/version. Pending or unhydrated controls are disabled; alert/status feedback and aria-current/Check navigation remain.
 
-Saving sends complete settings with optimistic version checks. A conflict retains both flags and pickup draft and disables saving until explicit full reload. Successful confirmation resets fields and version to the saved response. Pending controls are disabled; feedback uses alert/status roles.
+Reviewer `agency_settings_web_review`: ship, no material fixes; actual scope light mode at 1280/390. Document-top/fullpage evidence: `.impeccable/review/delivery-settings-desktop.png`, `.impeccable/review/delivery-settings-mobile.png`, `.impeccable/review/agency-settings-desktop.png`, `.impeccable/review/agency-settings-mobile.png`. Dark/uncaptured states remain outside approval.
 
-Navigation exposes the settings entry with aria-current and a visible Check for the active page. Reviewer `home_settings_review`: ship; updated 1280/390 captures show readable scope. Lint/typecheck, core unit, mobile Jest, and focused web E2E passed.
-
-Evidence: `.impeccable/review/delivery-settings-desktop.png`, `.impeccable/review/delivery-settings-mobile.png`; E2E: `apps/core/tests/e2e/delivery-settings.spec.ts`.
+Core/mobile lint/typecheck, core unit, focused settings Jest, and focused real Chromium `apps/core/tests/e2e/delivery-settings.spec.ts` passed, including new-courier lifecycle/version conflict.
